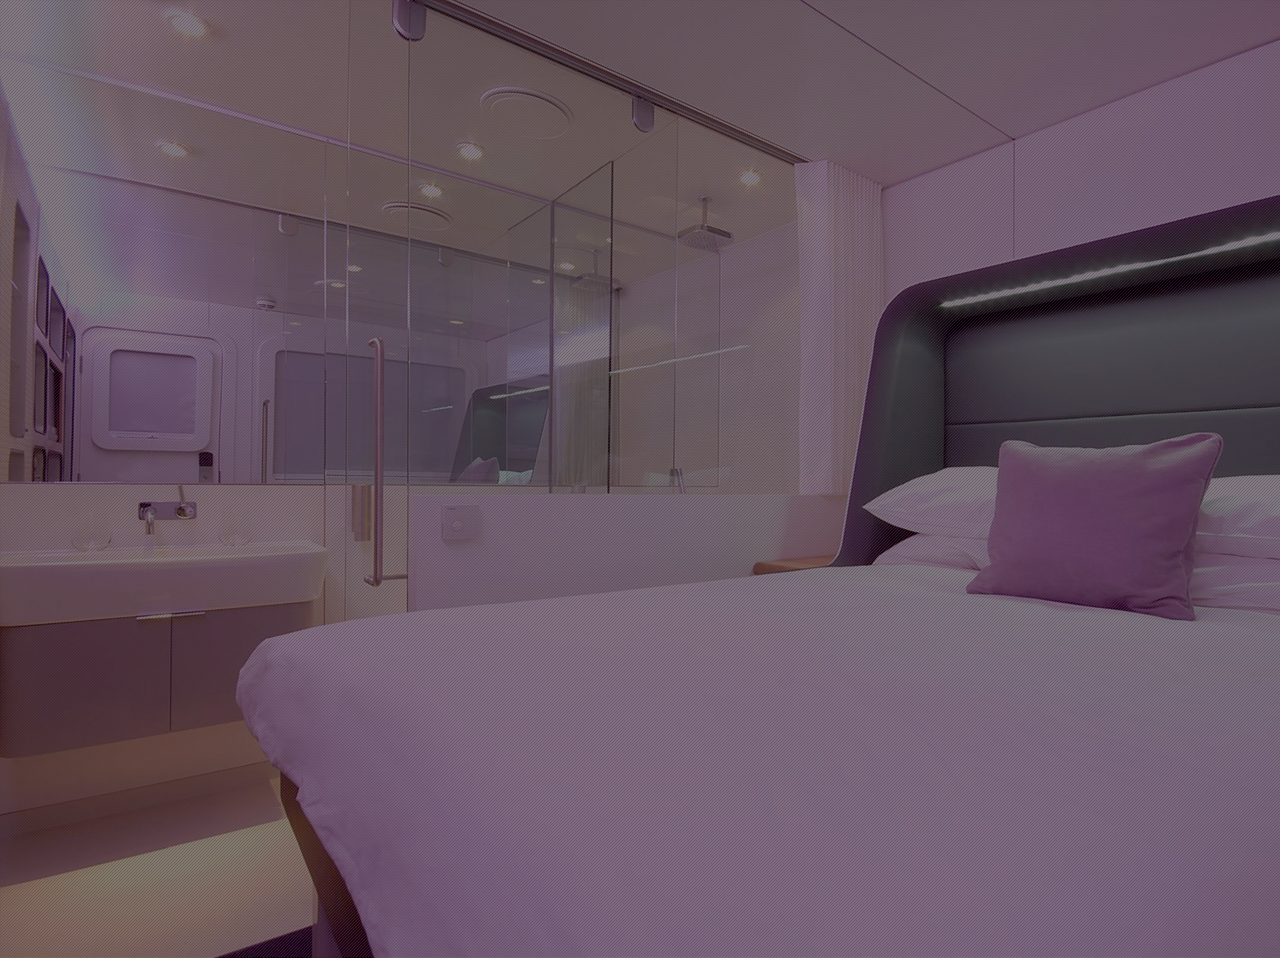
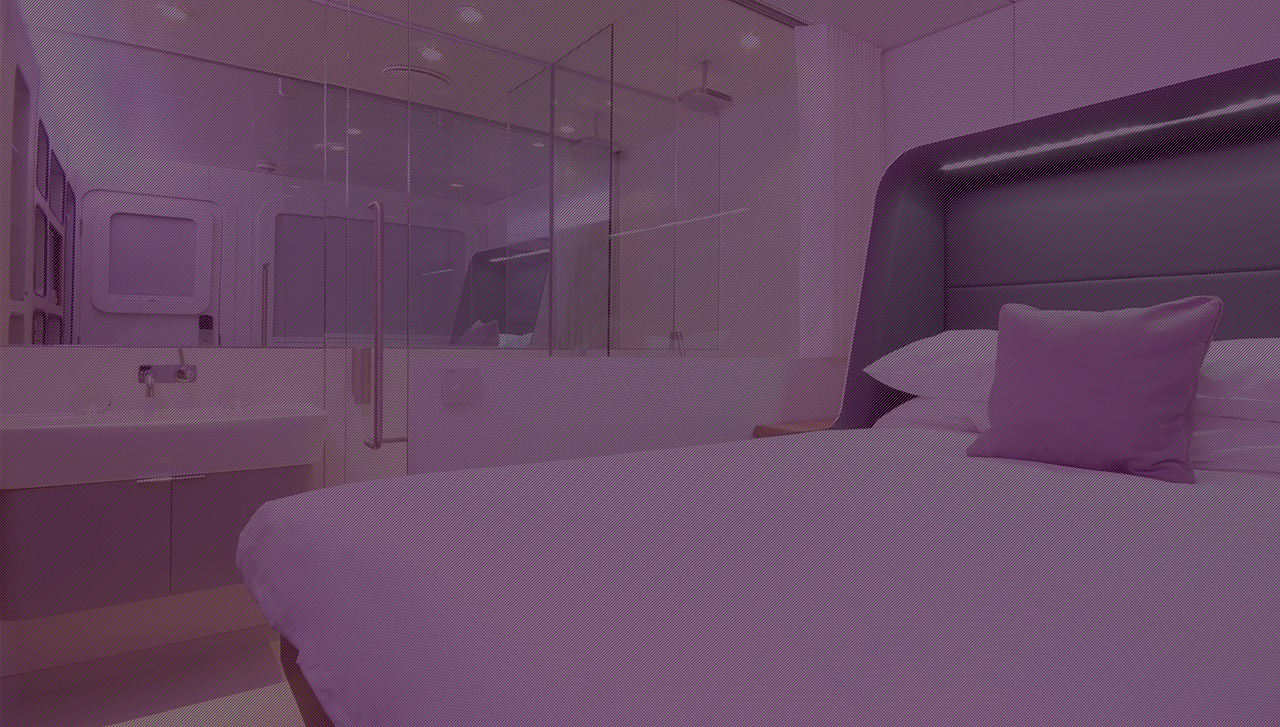
update concepts

diff --git a/concepts/yotel/yotel.css b/concepts/yotel/yotel.css
@@ -4,40 +4,42 @@ body {
 	padding: 0;
 }
 #login {
-	background: #fff;
-	border: solid 1px red;
+	background: url(loginbar.png) no-repeat right top;
 	border-top: none;
+	height: 100px;
 	position: absolute;
+	text-align: right;
 	top: 0;
-	right: 10px;
-	width: 200px;
+	right: 0px;
+	width: 100%;
+}
+#login span {
+  display: block;
+  margin-right: 10px;
 }
 #tray {
-	background: rgba(255,255,255,0.8);
+	background: rgba(255,255,255,0.7);
 	bottom: 0;
-	height: 100px;
+	height: 125px;
 	left: 0;
 	position: absolute;
 	width: 100%;
 }
 #tray-menu {
-	border: solid 1px red;
 	height: 60px;
 	position: absolute;
-	top: -30px;
+	top: -42px;
 	left: 50%;
-	margin-left: -50px;
-	width: 100px;
+	margin-left: -388px;
+	width: 777px;
 }
-	#tray-menu ul {
-		
-	}
-		#tray-menu ul li {
-			
+		#tray-menu a,
+		#tray-menu a:active {
+			outline: none !important;
 		}
-			#tray-menu ul li a {
-				
-			}
+	    #tray-menu a img {
+	      border: none;
+	    }
 
 
 
@@ -53,31 +55,54 @@ body {
 #flyout {
 	background: rgba(0,0,0,0.8);
 	border-radius: 5px 0 0 5px;
-	bottom: 140px;
+	height: 500px;
 	margin: 0px;
 	padding: 10px;
 	position: absolute;
-	right: -430px;
-	top: 25px;
-	width: 400px;
+	right: -570px;
+	top: 80px;
+	width: 535px;
 	z-index: 2;
 }
+.flyout-content {
+	overflow: hidden;
+	height: 446px; 
+	width: 535px;
+}
+  .flyout-content a {
+      border: none;
+      display: block;
+      margin: 0;
+      outline: none !important;
+      padding: 0;
+  }
+	  .flyout-content img {
+			border: none;
+			display: block;
+			margin: 0;
+			padding: 0;
+		}
+
 	#flyout-close {
-		background: rgba(0,0,0,0.8);
-		border-radius: 5px 5px 0 0;
-		-moz-border-radius: 5px 5px 0 0;
-		display: block;
-		padding: 3px 8px;
-		position: absolute;
-		top: -15px;
-		left: 15px;
+-moz-border-radius:5px 5px 0 0;
+background:none repeat scroll 0 0 rgba(0, 0, 0, 0.8);
+color:#888888;
+display:block;
+font-size:0.9em;
+left:15px;
+padding:3px 8px;
+position:absolute;
+text-decoration:none;
+text-transform:uppercase;
+top:-22px;
+outline: none !important;
 	}
 
 .xnav {
 	display: none;
 	position: absolute;
-	left: 300px;
-	top: 300px;
+	left: 30px;
+	top: 120px;
 	z-index: 1000;
 }
 	.xnav ul {
@@ -97,7 +122,8 @@ body {
 			position: relative;
 			width: 115px;
 		}
-		.xnav ul li:hover {
+		.xnav ul li:hover,
+		.xnav ul li.xnav-open {
 		 z-index: 100;
 		}
 			.xnav ul li a {
@@ -114,7 +140,8 @@ body {
 				width: 87px;
 			}
 			.xnav ul li a:hover,
-			.xnav ul li:hover > a {
+			.xnav ul li:hover > a,
+			.xnav ul > li.xnav-open > a {
 				background-image: url(menubox-darkpurple.png) ;
 				color: #fff;*/
 			}
@@ -127,31 +154,14 @@ body {
 				padding-left: 57px;
 				/*top: 72px;*/
 			}
-			.xnav ul li:hover > ul {
+			.xnav ul li:hover > ul,
+			.xnav ul li.xnav-open > ul {
 				display: block;
 			}
 				.xnav ul li ul li a {
 					background-image: url(menubox-solidpurple.png);
 					color: #fff;
 				}
-
-/* tier 3 
-					.xnav ul li ul li ul {
-						position: absolute;
-						left: 116px;
-						padding-left: 0;
-						top: 0px;
-						width: 400px;
-					}
-					.xnav ul li:hover ul li ul {
-						display: none;
-					}
-					.xnav > ul > li > ul > li:nth-child(even) {
-						left: 61px;
-					}
-					.xnav ul li:hover ul li:hover ul {
-						display: block;
-					}*/
 
 .xnav-h {
 	top: 72px;
@@ -161,20 +171,10 @@ body {
 	left: -57px;
 	padding: 0;
 }
+.xnav-open {
+	display: block;
+}
 
-/*
-				.xnav-anchorBottom ul li:hover ul {
-					top: auto;
-					bottom: 60px;
-				}
-				.xnav-anchorRight ul li:hover ul li ul {
-					left: auto;
-					right: 60px;
-				}
-					.xnav-anchorRight ul li ul li ul li {
-						float: right;
-					}
-					*/
 .xnav-t0 > ul > li,
 .xnav-t0 > ul > li:hover > ul > li {
 	opacity: 1;
@@ -186,8 +186,10 @@ body {
 }
 .xnav-t4 > ul > li:hover,
 .xnav-t4 > ul > li > ul > li:hover,
-.xnav-t4 > ul > li > ul > li > ul > li {
-	opacity: 1;
+.xnav-t4 > ul > li > ul > li > ul > li,
+.xnav-t4 > ul > li.xnav-open,
+.xnav-t4 > ul > li > ul > li.xnav-open {
+		opacity: 1;
 }
 
 .xnav-t4 > ul > li {
@@ -196,17 +198,18 @@ body {
 .xnav-t4 > ul > li:hover {
 /*width: 120px;*/
 }
+/*
 .xnav-t4 > ul > li > a {
 background-image: url(menubox-silversm.png);
 font-size: 0.8em;
-/*left: -25px;*/
+left: -25px;
 padding-top: 40px;
 padding-left: 30px;
-}
-.xnav-t4 > ul > li:hover > a {
-font-size: 1em;
-/*left: -13px;*/
-opacity: 0.5;
+}*/
+.xnav-t4 > ul > li > a {
+/*font-size: 1em;
+left: -13px;*/
+opacity: 0.2 !important;
 }
 
 .cp-numStep {

diff --git a/concepts/yotel/index.html b/concepts/yotel/index.html
@@ -14,30 +14,36 @@ layout: nil
 	</head>
 	<body>
 		<div id="wrapper">
-			 <img src="yotel.png" width="100%" style="position: absolute; top: 0; left: 0;" alt="" />
+			 <img src="yotel.png" height="100%" style="position: absolute; top: 0; left: 0;" alt="" />
+			 <img src="logo.png" style="position: absolute; top: 25px; left: 10px;" />
 			 <div id="login">
-			 	<strong>Hello Guest</strong> | <a href="#">Login</a>
 			 </div>
 		 	<div id="flyout">
 		 		<a id="flyout-close" href="#js">Close</a>
-		 		<h2>Flyout content</h2>
-				<p>Lorem ipsum dolor sit amet, consectetur adipiscing elit. Morbi ut nisl mauris. Cum sociis natoque penatibus et magnis dis parturient montes, nascetur ridiculus mus. Sed a euismod mauris. Praesent mattis vulputate dolor nec convallis. Cras nisl elit, pharetra at sodales et, dignissim et leo. Quisque interdum arcu at libero rutrum luctus. Ut sed eros nisi, non ornare risus. Ut varius nibh et arcu suscipit adipiscing. Cras mi odio, hendrerit ut aliquet ac, accumsan non magna. Ut purus nulla, viverra vel dictum eu, elementum a nisl. Donec pulvinar dictum dictum. Vivamus nec mauris sed leo dictum ultricies. Praesent eget sem orci. Cras nec odio mi. Nulla quis pellentesque</p>
+        <div class="flyout-content">
+          <a href="#check" id="dateandtime">
+            <img src="dateandtime.png" alt="" />
+          </a>
+          <a id="check" href="#dateandtime">
+            <img src="checking.png" alt="" />
+          </a>
+        </div>
 		 	</div>
 			<div id="tray">
 				<div id="tray-menu">
-					<ul>
-						<li>
-							<a href="none">POD</a>
-						</li>
-					</ul>
+           <a href="none">
+            <img src="secnav.png" alt="" />
+           </a>
+
 				</div>
 			</div>
-		<div id="xnav" class="xnav">
+    <img src="logos.png" alt="" style="position: absolute; bottom: 10px; left: 10px;" />
+		<div id="xnav" class="xnav xnav-showPOD">
 			<ul>
 				<li>
 					<a href="none">Date<br />&amp Time</a>
 				</li>
-				<li>
+				<li class="xnav-showPOD">
 					<a href="none">POD<br />Type</a>
 					<ul class="xnav-h">
 						<li>
@@ -49,7 +55,7 @@ layout: nil
 						<li>
 							<a href="none">POD<sup>XL</sup></a>
 						</li>
-						<li>
+						<li class="xnav-showPOD">
 							<a href="none">POD<sup>XXL</sup></a>
 							<ul class="xnav-h xnav-bk1">
 								<li>

diff --git a/concepts/yotel/yotel.js b/concepts/yotel/yotel.js
@@ -17,13 +17,42 @@
 				if (b){
 					flyout$
 						.animate({
-							'right': -430
+							'right': -570
 						})					
 						.animate({
 							'right': 0
 						});					
+				}else{
+					flyout$
+					.animate({
+						'right': -570
+					});					
 				}
 			};
+			var openPodNav = function(b){
+				if (b){
+					this$.addClass('xnav-t4');
+					$('.xnav-showPOD').addClass('xnav-open');
+				}else{
+					this$.removeClass('xnav-t4');
+					$('.xnav-showPOD').removeClass('xnav-open');
+				}
+			};
+			$('#flyout-close').click(function(){showFlyout(false);return false;});
+			$('.flyout-content a').click(function(){
+				$('.flyout-content a').hide();
+				var this$ = $(this);
+				var next$ = $(this$.attr('href'));
+				/*
+				if (next$.hasClass('xnav-showPOD')){
+					openPodNav(true);
+					showFlyout(false);
+				}else{
+					next$.show();
+				}*/
+				next$.show();
+				return false;
+			});
 			this$.find('li').hover(function(){
 				var tier = $(this).closest('li').parentsUntil('#xnav > ul').length;
 				this$
@@ -47,6 +76,8 @@
 				this$.removeClass('xnav-anchorRight');
 				this$.removeClass('xnav-anchorBottom');
 				
+				openPodNav(false);
+				
 				if (isOpen()){
 					this$.fadeOut(100);
 					return;
@@ -56,9 +87,9 @@
 					left: e.pageX+'px',
 					top: e.pageY + 'px'						
 				};
-				if (e.pageX > (scrWidth-300)){
-					cssLocation.left = 'auto';
-					cssLocation.right = (scrWidth - e.pageX) + 'px';
+				if (e.pageX > (scrWidth-700)){
+					cssLocation.left = (scrWidth-700) + 'px';
+					//cssLocation.right = (scrWidth - e.pageX) + 'px';
 					this$.addClass('xnav-anchorRight'); 
 				}
 				if (scrHeight > 300 && e.pageY > (scrHeight - 300)){
